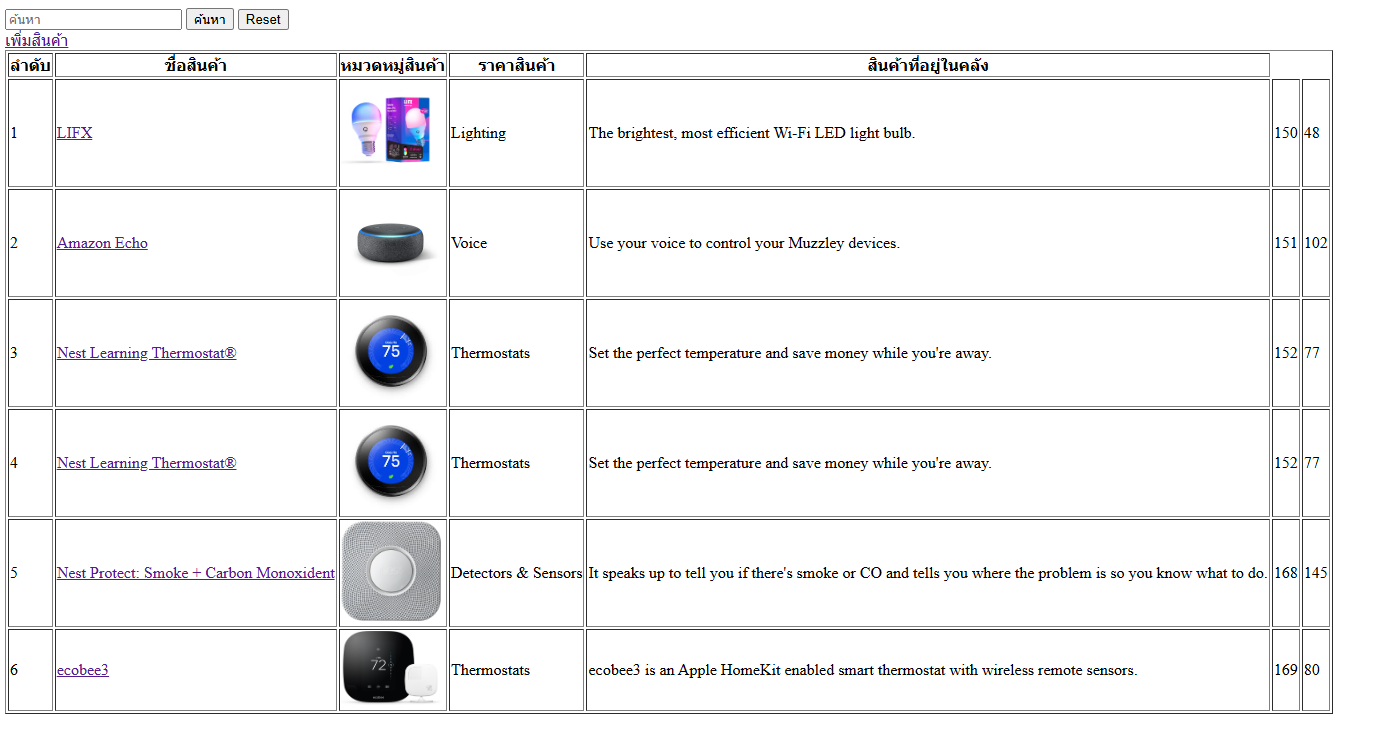
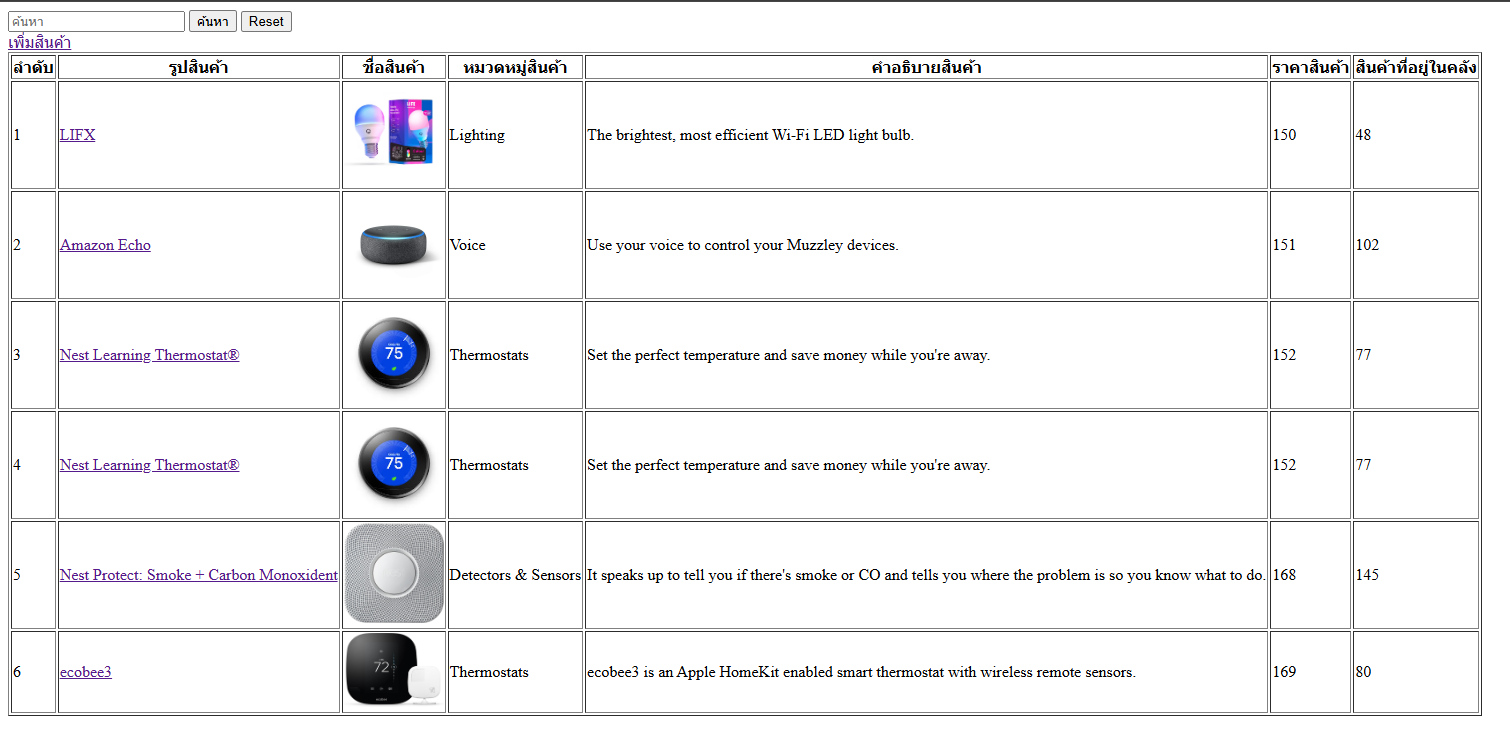
pototype

diff --git a/index.php b/index.php
@@ -81,8 +81,10 @@ if ($keyword != "" ) {
     <table border="1">
         <tr>
             <th>ลำดับ</th>
+            <th>รูปสินค้า</th>
             <th>ชื่อสินค้า</th>
             <th>หมวดหมู่สินค้า</th>
+            <th>คำอธิบายสินค้า</th>
             <th>ราคาสินค้า</th>
             <th>สินค้าที่อยู่ในคลัง</th>
         </tr>
